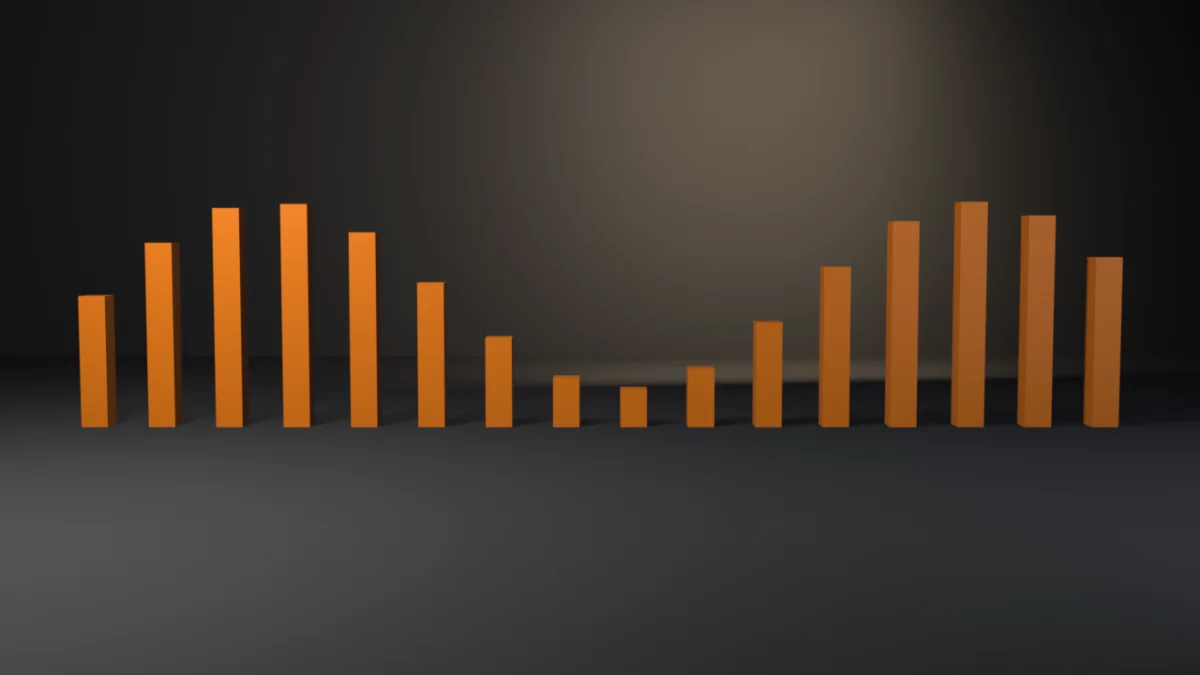
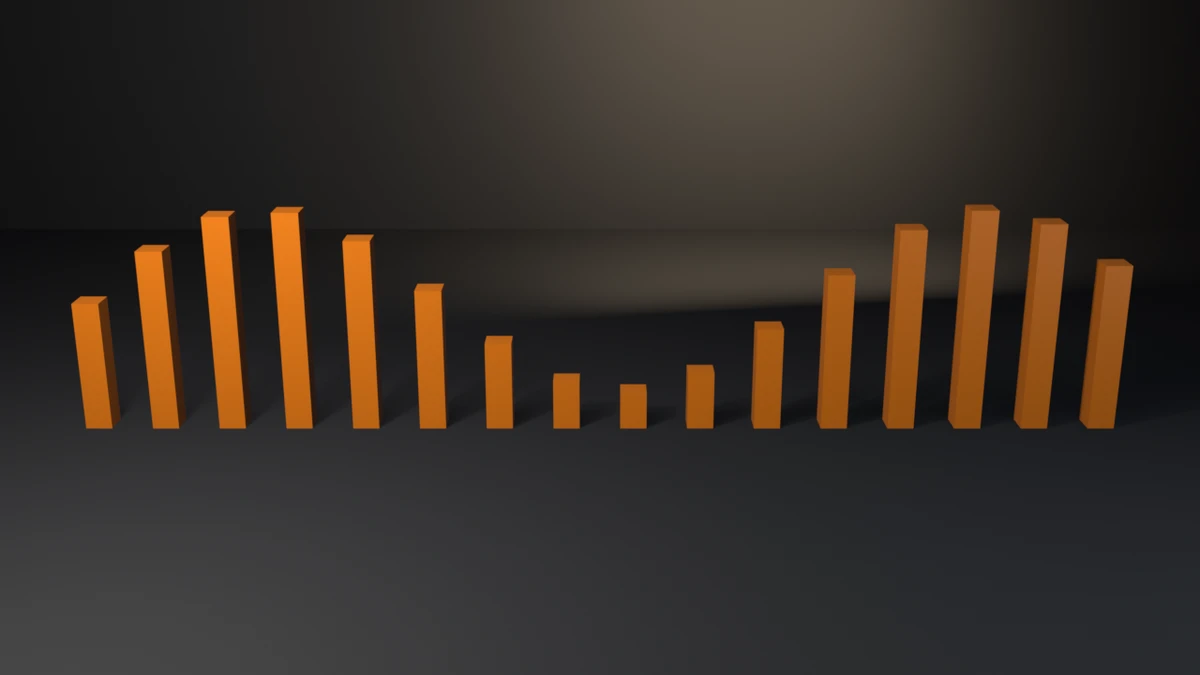
fix: driver-wave presentation, a raised camera so the wave reads
Render path only: the camera looks down 18 degrees so the column tops and
shadows read as a wave. Contract and exit codes unchanged on 4.5.11, 5.1.2
and 5.2.1. Also regenerates the gallery index for all four items.

diff --git a/docs/gallery/driver-wave/index.html b/docs/gallery/driver-wave/index.html
@@ -16,13 +16,13 @@
   <meta property="og:image" content="https://tmhsdigital.github.io/Blender-Developer-Tools/gallery/assets/driver-wave-hero.webp" />
   <meta property="og:image:width" content="1280" />
   <meta property="og:image:height" content="720" />
-  <meta property="og:image:alt" content="A row of orange bars whose heights rise and fall in a wave, low in the middle and tall at both ends." />
+  <meta property="og:image:alt" content="A row of orange bars seen from above, their heights rising and falling in a wave, low in the middle and tall at both ends, each casting a shadow on the floor." />
   <meta property="og:site_name" content="Blender Developer Tools" />
   <meta name="twitter:card" content="summary_large_image" />
   <meta name="twitter:title" content="driver-wave — Examples — Blender Developer Tools" />
   <meta name="twitter:description" content="A driver_namespace function driving sixteen column heights through SCRIPTED drivers — the sine skyline is entirely driver-evaluated." />
   <meta name="twitter:image" content="https://tmhsdigital.github.io/Blender-Developer-Tools/gallery/assets/driver-wave-hero.webp" />
-  <meta name="twitter:image:alt" content="A row of orange bars whose heights rise and fall in a wave, low in the middle and tall at both ends." />
+  <meta name="twitter:image:alt" content="A row of orange bars seen from above, their heights rising and falling in a wave, low in the middle and tall at both ends, each casting a shadow on the floor." />
   <style>
     /* fonts are deployed by the landing build (docs/fonts/) */
     @font-face { font-family: 'Barlow Condensed'; font-weight: 600; font-display: swap;
@@ -268,8 +268,8 @@
     <p>A driver_namespace function driving sixteen column heights through SCRIPTED drivers — the sine skyline is entirely driver-evaluated.</p>
   </header>
   <main id="main">
-    <button class="detail-hero" id="heroZoom" type="button" aria-label="View full size: A row of orange bars whose heights rise and fall in a wave, low in the middle and tall at both ends.">
-      <img src="../assets/driver-wave-hero.webp" alt="A row of orange bars whose heights rise and fall in a wave, low in the middle and tall at both ends." width="1280" height="720" />
+    <button class="detail-hero" id="heroZoom" type="button" aria-label="View full size: A row of orange bars seen from above, their heights rising and falling in a wave, low in the middle and tall at both ends, each casting a shadow on the floor.">
+      <img src="../assets/driver-wave-hero.webp" alt="A row of orange bars seen from above, their heights rising and falling in a wave, low in the middle and tall at both ends, each casting a shadow on the floor." width="1280" height="720" />
     </button>
     <p class="zoom-hint">Rendered headless by the example itself — click to zoom.</p>
     <div class="callout"><span class="tag">witnesses</span> Driven values appear after a view-layer update in two places that must agree: the evaluated copy and the original datablock the animation system flushes for display.</div>
@@ -281,6 +281,8 @@
 <p>A runnable example that drives sixteen column heights from a custom function registered in <code>bpy.app.driver_namespace</code> — the pattern from <a href="https://github.com/TMHSDigital/Blender-Developer-Tools/tree/main/skills/drivers-and-app-handlers/SKILL.md"><code>drivers-and-app-handlers</code></a>. Each column gets a SCRIPTED driver on Z scale whose expression calls <code>wave_scale(i)</code>, producing a sine skyline.</p>
 <p><strong>What it witnesses:</strong> the driver evaluation contract. Driven values appear only after a view-layer update, and they land in <strong>two</strong> places that must agree: the depsgraph-evaluated copy (<code>evaluated_get(dg).scale</code>) and the original datablock, which the animation system flushes for display. The check asserts both against the closed-form profile.</p>
 <p>Note for real add-ons: <code>driver_namespace</code> entries do <strong>not</strong> persist in <code>.blend</code> files — re-register them from a <code>load_post</code> handler, or every driver that calls them fails on file open. Headless, registering before driver creation (as here) is enough.</p>
+<h2>Staging</h2>
+<p>The camera is raised to look down about 18 degrees, so the column tops and their shadows read as a wave. From nearly level (86 degrees) the skyline flattened into a bar chart. Render path only.</p>
 <h2>Run</h2>
 <pre><code># Cheap correctness check (no render) — the CI check:
 blender --background --python driver_wave.py --
@@ -457,8 +459,10 @@ BASE = <span class="n">0.28</span>
     <span class="c"># the frame with a small margin -- the skyline must not clip</span>
     cam_data = bpy.data.cameras.new(<span class="s">&quot;Cam&quot;</span>); cam_data.lens = <span class="n">42.0</span>
     cam = bpy.data.objects.new(<span class="s">&quot;Cam&quot;</span>, cam_data)
-    cam.location = (<span class="n">0.0</span>, -<span class="n">15.0</span>, <span class="n">2.0</span>)
-    cam.rotation_euler = (math.radians(<span class="n">86</span>), <span class="n">0.0</span>, <span class="n">0.0</span>)
+    <span class="c"># raised so the column tops and their shadows read as a wave; from</span>
+    <span class="c"># nearly level (86 deg) it flattened into a bar chart</span>
+    cam.location = (<span class="n">0.0</span>, -<span class="n">14.2</span>, <span class="n">5.6</span>)
+    cam.rotation_euler = (math.radians(<span class="n">72</span>), <span class="n">0.0</span>, <span class="n">0.0</span>)
     scene.collection.objects.link(cam)
     scene.camera = cam
 
@@ -528,7 +532,7 @@ BASE = <span class="n">0.28</span>
   </main>
   <dialog class="lightbox" id="lightbox" aria-label="Full-size render">
     <button class="lightbox-close" type="button" autofocus>Close</button>
-    <img src="../assets/driver-wave-hero.webp" alt="A row of orange bars whose heights rise and fall in a wave, low in the middle and tall at both ends." />
+    <img src="../assets/driver-wave-hero.webp" alt="A row of orange bars seen from above, their heights rising and falling in a wave, low in the middle and tall at both ends, each casting a shadow on the floor." />
   </dialog>
   <footer>
     <div class="statusbar">

diff --git a/docs/gallery/index.html b/docs/gallery/index.html
@@ -398,7 +398,7 @@
       </article>
       <article class="card" data-tags="drivers animation">
         <a class="card-media" href="driver-wave/" tabindex="-1" aria-hidden="true">
-          <img src="assets/driver-wave-hero.webp" alt="A row of orange bars whose heights rise and fall in a wave, low in the middle and tall at both ends." loading="lazy" decoding="async" />
+          <img src="assets/driver-wave-hero.webp" alt="A row of orange bars seen from above, their heights rising and falling in a wave, low in the middle and tall at both ends, each casting a shadow on the floor." loading="lazy" decoding="async" />
         </a>
         <div class="card-body">
           <h2><a href="driver-wave/">driver-wave</a></h2>
@@ -1069,12 +1069,12 @@
       </article>
       <article class="card" data-tags="mesh export showcase">
         <a class="card-media" href="hitching-post/" tabindex="-1" aria-hidden="true">
-          <img src="assets/hitching-post-hero.webp" alt="A tall wooden hitching post with a pointed cap, a crossbar and two iron rings." loading="lazy" decoding="async" />
+          <img src="assets/hitching-post-hero.webp" alt="A tall wooden hitching post with a pointed cap, a crossbar, two iron bands wrapped around the post and two iron rings." loading="lazy" decoding="async" />
         </a>
         <div class="card-body">
           <h2><a href="hitching-post/">hitching-post</a></h2>
           <p class="teaches">A procedural hitching post (eaved cap, one rail, cup shoe, rings hung through eyes) through UVs, bake, LOD, collider, and Unity glTF, asserting recomputed budgets rather than an API contract.</p>
-          <p class="witnesses"><span class="tag">witnesses</span> Recomputed: 1680 tris, two materials with 114 wood and 742 metal faces, UVs in 0..1 with zero AABB overlap, outer AABB 0.500×0.149×1.246 m, zmin 0, hygiene and coplanar pairs 0, post seated at z 0.010, ring centerline error 0, LOD ratios in band, convex collider 80 tris, non-empty glTF. --skip-decimate exits 9; --stray-vert and --twin-sole exit 15; --lift-z exits 16; --clip-ring exits 18; --short-post exits 19.</p>
+          <p class="witnesses"><span class="tag">witnesses</span> Recomputed: 1680 tris, two materials with 114 wood and 742 metal faces, UVs in 0..1 with zero AABB overlap, outer AABB 0.500×0.149×1.246 m, zmin 0, hygiene and coplanar pairs 0, post seated at z 0.010, ring centerline error 0, bands 6.5 mm proud of the post, LOD ratios in band, convex collider 80 tris, non-empty glTF. --skip-decimate exits 9; --stray-vert and --twin-sole exit 15; --lift-z exits 16; --clip-ring and --sunk-bands exit 18; --short-post exits 19.</p>
           <a class="card-link" href="hitching-post/">View showcase piece<span class="sr-only"> hitching-post</span> <span aria-hidden="true">&rarr;</span></a>
         </div>
       </article>
@@ -1091,7 +1091,7 @@
       </article>
       <article class="card" data-tags="mesh export showcase">
         <a class="card-media" href="hand-pump/" tabindex="-1" aria-hidden="true">
-          <img src="assets/hand-pump-hero.webp" alt="A dark iron village hand pump with a curved spout and lever handle on a square wooden plinth." loading="lazy" decoding="async" />
+          <img src="assets/hand-pump-hero.webp" alt="A matte black cast-iron village hand pump with a curved spout and lever handle on a stepped wooden plinth." loading="lazy" decoding="async" />
         </a>
         <div class="card-body">
           <h2><a href="hand-pump/">hand-pump</a></h2>

diff --git a/examples/driver-wave/driver_wave.py b/examples/driver-wave/driver_wave.py
@@ -153,8 +153,10 @@ def render_still(objs, path, engine):
     # the frame with a small margin -- the skyline must not clip
     cam_data = bpy.data.cameras.new("Cam"); cam_data.lens = 42.0
     cam = bpy.data.objects.new("Cam", cam_data)
-    cam.location = (0.0, -15.0, 2.0)
-    cam.rotation_euler = (math.radians(86), 0.0, 0.0)
+    # raised so the column tops and their shadows read as a wave; from
+    # nearly level (86 deg) it flattened into a bar chart
+    cam.location = (0.0, -14.2, 5.6)
+    cam.rotation_euler = (math.radians(72), 0.0, 0.0)
     scene.collection.objects.link(cam)
     scene.camera = cam
 

diff --git a/README.md b/README.md
@@ -645,7 +645,7 @@ A slotted-actions Z-rotation turntable keyed through the cross-version channelba
 </tr>
 <tr>
 <td width="46%" valign="middle">
-<a href="examples/driver-wave/"><img src="examples/driver-wave/preview.webp" alt="Driver wave: sixteen orange columns whose heights form a sine skyline on a dark studio floor, each driven by a driver_namespace function" /></a>
+<a href="examples/driver-wave/"><img src="examples/driver-wave/preview.webp" alt="Driver wave: sixteen orange columns seen from above whose heights form a sine wave on a dark studio floor, each driven by a driver_namespace function" /></a>
 </td>
 <td valign="middle">
 

diff --git a/examples/driver-wave/README.md b/examples/driver-wave/README.md
@@ -15,6 +15,12 @@ Note for real add-ons: `driver_namespace` entries do **not** persist in `.blend`
 re-register them from a `load_post` handler, or every driver that calls them fails on file
 open. Headless, registering before driver creation (as here) is enough.
 
+## Staging
+
+The camera is raised to look down about 18 degrees, so the column tops
+and their shadows read as a wave. From nearly level (86 degrees) the
+skyline flattened into a bar chart. Render path only.
+
 ## Run
 
 ```bash
